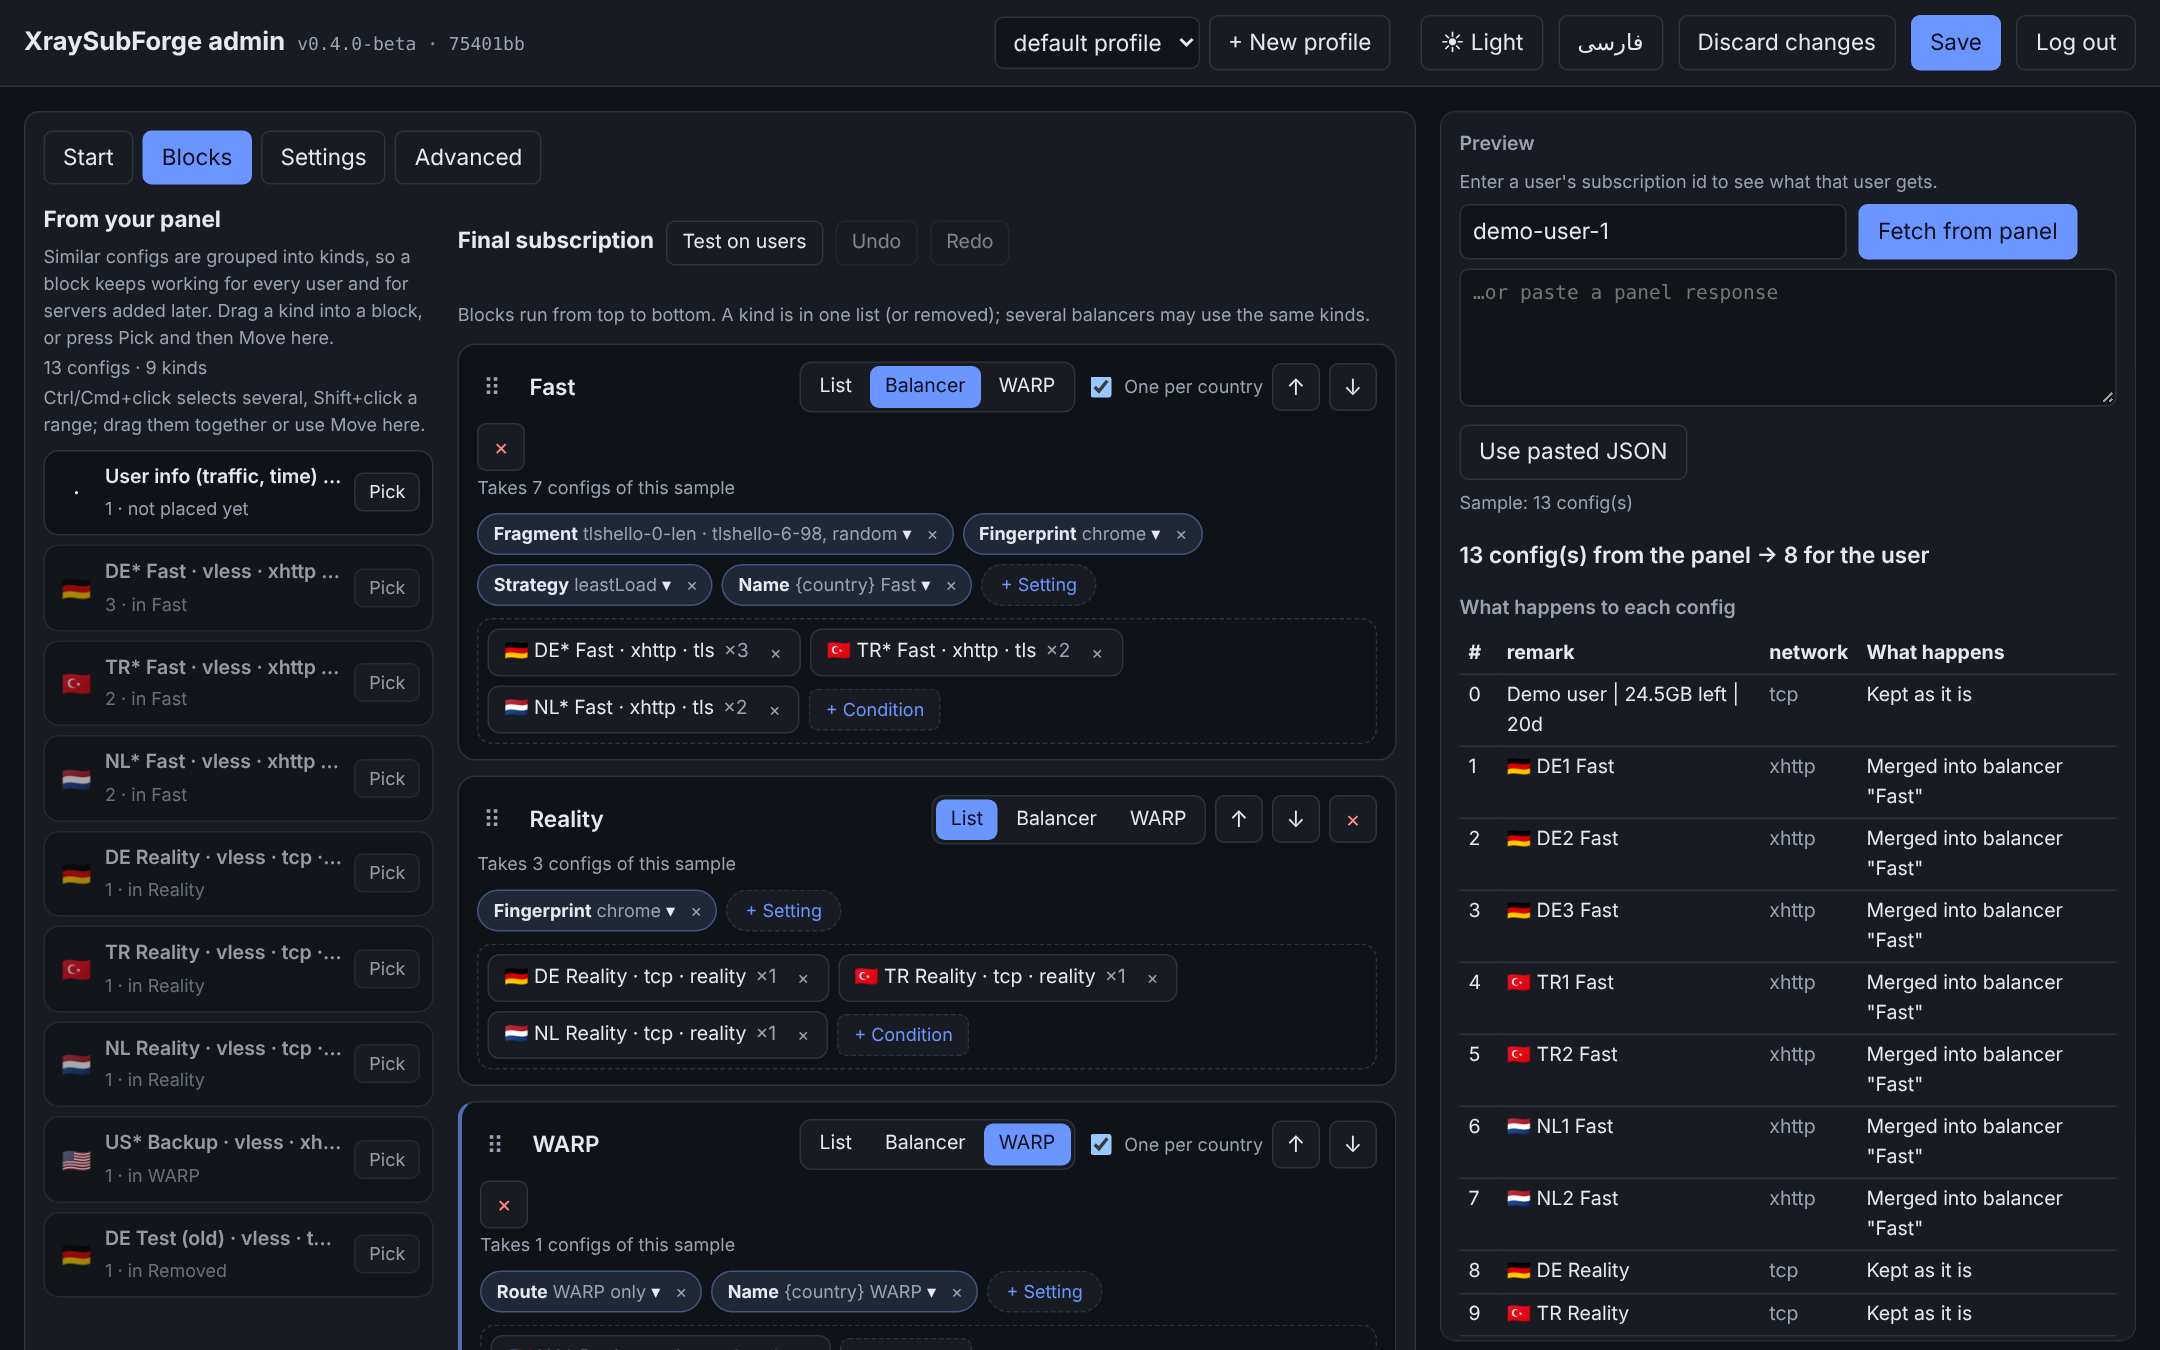
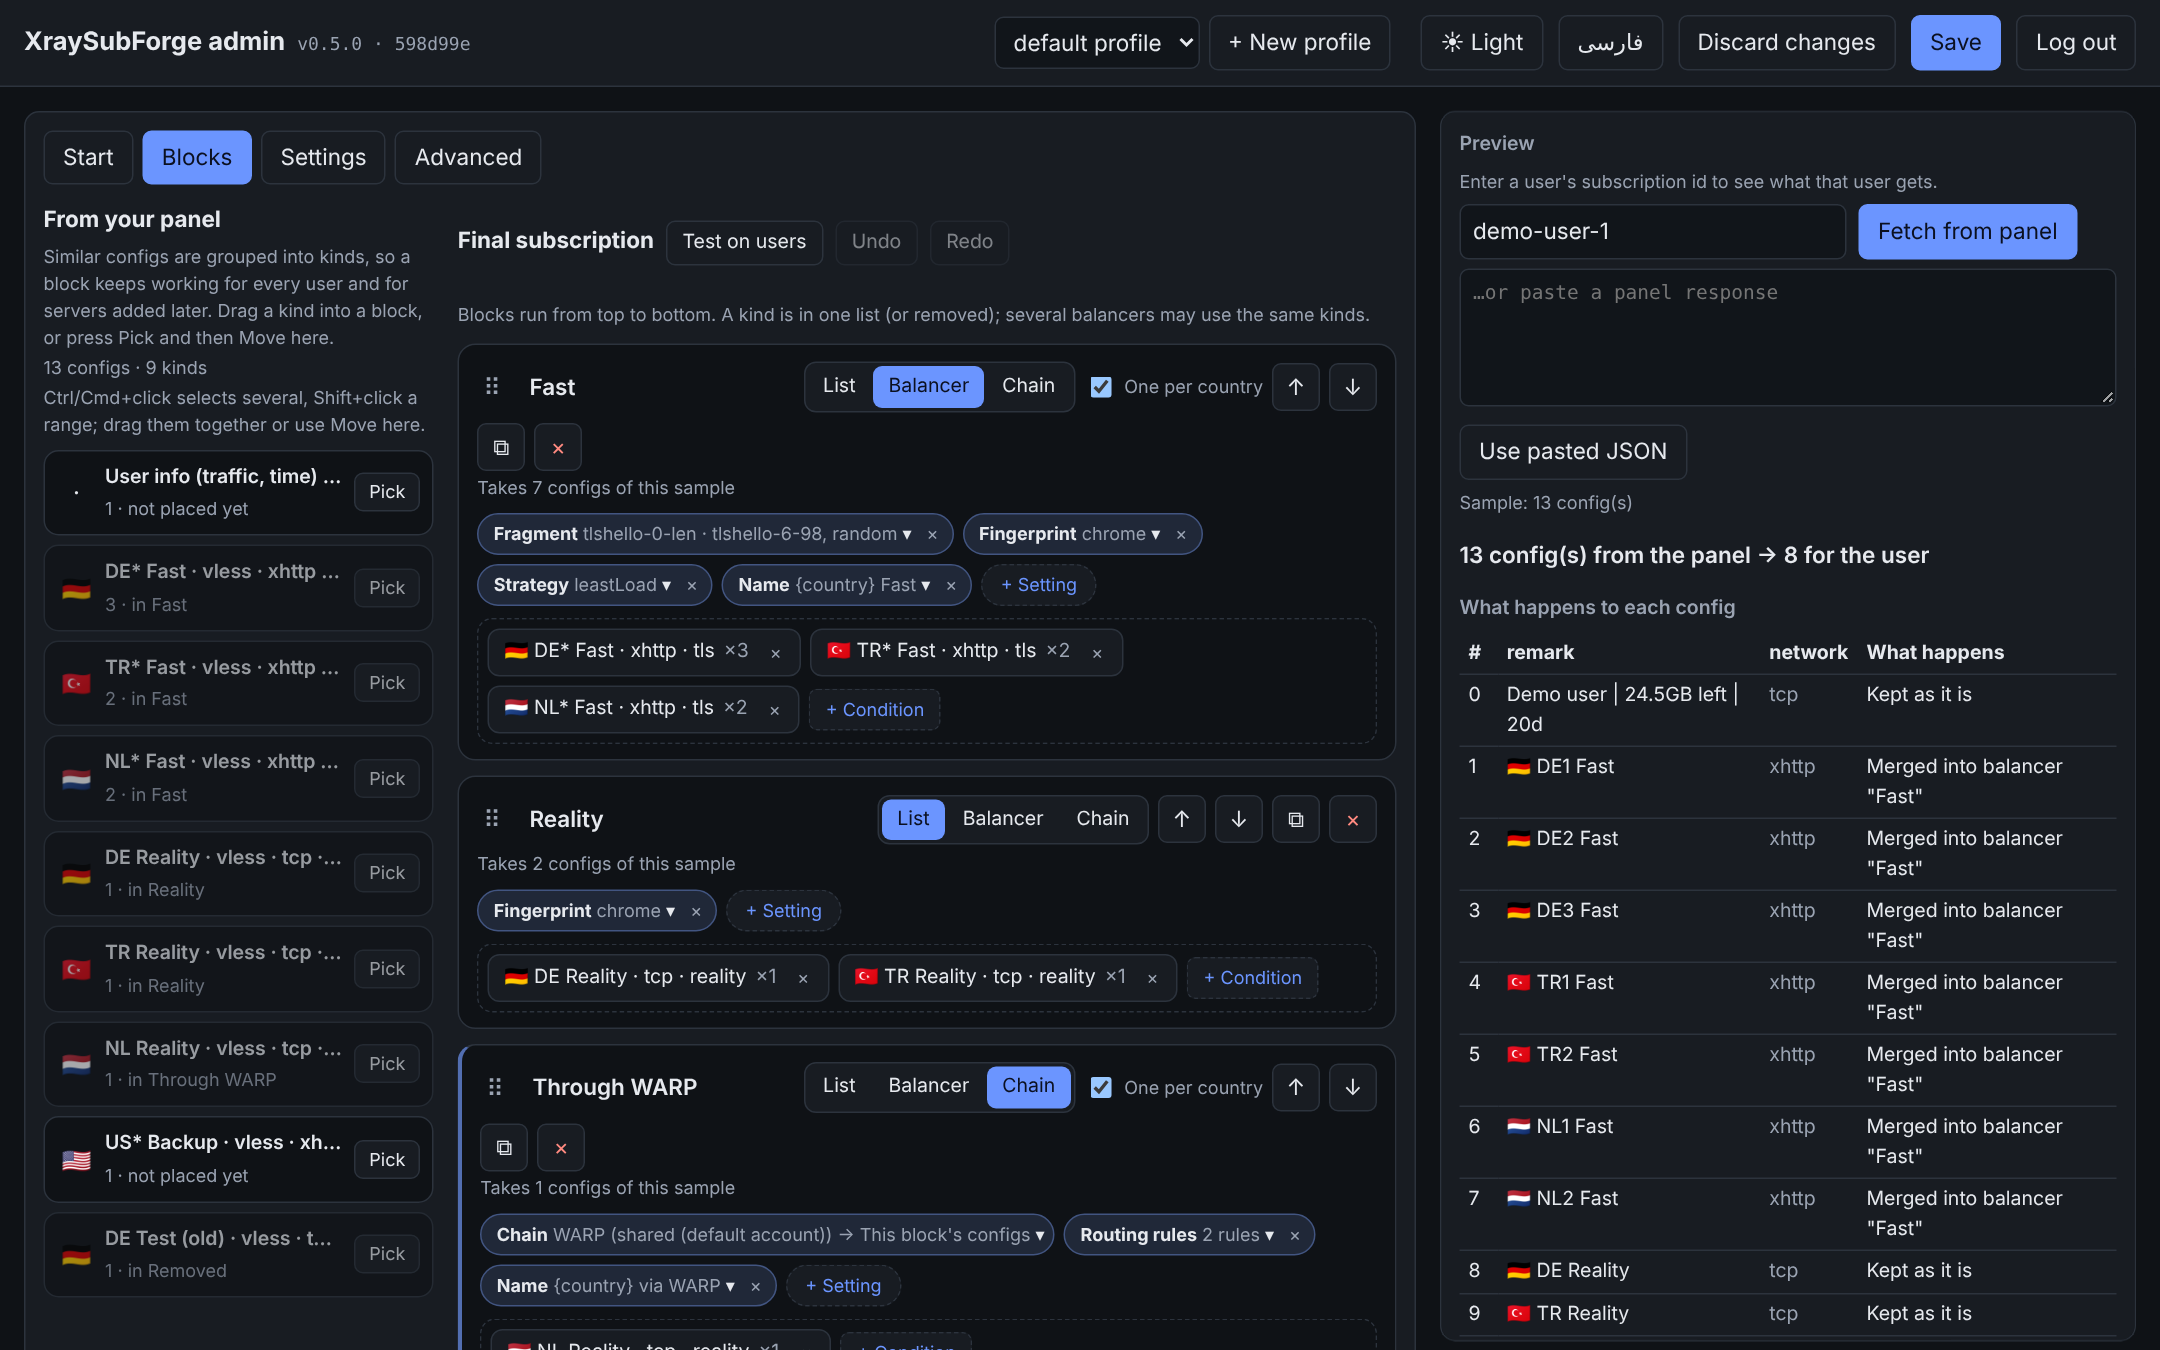
Screenshots for 0.5.0: blocks with a chain block, chain rules, DNS form, preview; routing rules help mentions position

diff --git a/xraysubforge/admin_static/admin.js b/xraysubforge/admin_static/admin.js
@@ -432,7 +432,7 @@
     hopLink: "Link (vless://, vmess://, trojan://, ss://)", hopImport: "Import", hopUserId: "Use each user's own id ({user.id})", hopOutHint: "Placeholders: {user.id} = the user's own id, {account.x} = a value of the account, {choice.x} = a value of Choices.", hopEndpoints: "Endpoints (empty = the account's)", hopEntry: "Entry outbound (empty = {account.masque.outbound})", hopMerge: "Changes to the WARP outbound", hopJson: "Edit as JSON", hopRows: "Edit as rows", hopImported: "Imported: {name}", s_warp: "Route", s_pick: "WARP endpoint",
     h_warp: "The config dropped here is only a placeholder. With an exit: the result is [exit, WARP], where the exit is the outbound template in the accounts file (exits by country flag, else exit) with the user's own id filled in, dialed through WARP. WARP only: WARP alone, no exit.",
     s_account: "WARP account", h_account: "Each user their own account (from the accounts file, or made automatically), or the one shared account (default) for everybody.", bAcctPersonal: "personal (per user)", bAcctShared: "shared (default account)",
-    s_rules: "Routing rules", h_rules: "Routing rules added at the end of the config's rules. A rule without outboundTag goes to this block's own proxy; write direct or block to send it elsewhere.",
+    s_rules: "Routing rules", h_rules: "Routing rules of this block's configs. Each rule goes to the end of the list (in front of the final catch-all) or, with Position Early, after the DNS rules. A rule without outboundTag goes to this block's own proxy; write direct or block to send it elsewhere.",
     bDuplicate: "Duplicate this block (settings only, without its configs)", bCopyOf: "{name} copy", bLegacy: "old setting", bLiftPresets: "Move the fragment / cipher presets to their own settings", bLiftHint: "A step here only picks fragment or cipher presets: the Fragment and Cipher settings do the same.", h_pick: "Which WARP endpoint each user gets.",
     bCostTitle: "Cost per member", bCostHint: "The first rule that matches a config sets its cost (higher = chosen less often). A rule without a condition is the default.", bCostValue: "cost", bCostWhen: "when", bCostAdd: "+ Cost rule", bCostAll: "every other config",
     bLoadParams: "leastLoad parameters (empty = Xray default)", bProbeParams: "Probe (how members are measured)", bNoParams: "This strategy has no parameters.", s_load: "leastLoad parameters", h_load: "expected, maxRTT and tolerance of the leastLoad strategy. Empty fields use Xray's own defaults.", s_probe: "Probe", h_probe: "How the balancer measures its members: URL, method, interval, number of samples and timeout.",
@@ -492,7 +492,7 @@
     hopLink: "لینک (vless://، vmess://، trojan://، ss://)", hopImport: "Import", hopUserId: "id خود هر کاربر گذاشته شود ({user.id})", hopOutHint: "Placeholderها: {user.id} = id خود کاربر، {account.x} = مقداری از حساب، {choice.x} = مقداری از Choices.", hopEndpoints: "Endpointها (خالی = مال حساب)", hopEntry: "Entry outbound (خالی = {account.masque.outbound})", hopMerge: "تغییرات روی outbound وارپ", hopJson: "ویرایش بهصورت JSON", hopRows: "ویرایش بهصورت ردیف", hopImported: "Import شد: {name}", s_warp: "مسیر", s_pick: "endpoint وارپ",
     h_warp: "کانفیگی که اینجا میکشید فقط جانگهدار است. با exit: نتیجه [exit, WARP] است؛ exit همان قالب outbound داخل فایل حسابهاست (exits بر اساس پرچم کشور، وگرنه exit) که id خود کاربر در آن گذاشته میشود و از داخل WARP وصل میشود. فقط WARP: خود WARP بدون exit.",
     s_account: "حساب WARP", h_account: "هر کاربر حساب خودش (از فایل حسابها یا ساخت خودکار)، یا یک حساب مشترک (default) برای همه.", bAcctPersonal: "شخصی (هر کاربر جدا)", bAcctShared: "مشترک (حساب default)",
-    s_rules: "قوانین مسیریابی", h_rules: "قوانین routing که به انتهای قوانین کانفیگ اضافه میشوند. قانونی که outboundTag ندارد به پروکسی خود همین بلوک میرود؛ برای مقصد دیگر direct یا block بنویسید.",
+    s_rules: "قوانین مسیریابی", h_rules: "قوانین routing کانفیگهای این بلوک. هر قانون به ته لیست (قبل از قانون فراگیر آخر) میرود، یا با جایگاه «اول» بعد از قوانین DNS. قانونی که outboundTag ندارد به پروکسی خود همین بلوک میرود؛ برای مقصد دیگر direct یا block بنویسید.",
     bDuplicate: "کپی این بلوک (فقط تنظیمات، بدون کانفیگها)", bCopyOf: "کپی {name}", bLegacy: "تنظیم قدیمی", bLiftPresets: "انتقال presetهای fragment / cipher به تنظیم خودشان", bLiftHint: "یک مرحله در اینجا فقط preset فرگمنت یا cipher انتخاب میکند: تنظیمهای Fragment و Cipher همین کار را میکنند.", h_pick: "هر کاربر کدام endpoint وارپ را بگیرد.",
     bCostTitle: "Cost هر عضو", bCostHint: "اولین قانونی که با یک کانفیگ جور شود cost آن را تعیین میکند (بیشتر = کمتر انتخاب میشود). قانون بدون شرط، پیشفرض است.", bCostValue: "cost", bCostWhen: "شرط", bCostAdd: "+ قانون cost", bCostAll: "بقیهٔ کانفیگها",
     pMerge: "ادغام", pRoutePre: "قوانین مسیریابی که اول اضافه میشوند", pRoutePost: "قوانین مسیریابی که آخر اضافه میشوند",

diff --git a/README.fa.md b/README.fa.md
@@ -57,6 +57,12 @@
 
 *Balancer* را بزنید، *One per country* را تیک بزنید، گونههای مورد نظر را داخلش بکشید و انتخاب کنید عضو را چطور برگزیند. پارامترهای خود strategy (برای `leastLoad`: `expected`، `maxRTT`، `tolerance`، `baselines`) و probe که اعضا را اندازه میگیرد داخل تنظیم **Strategy** هستند و پیشفرض Xray بهصورت راهنما نشان داده میشود. costها ردیفاند: *این شرط اینقدر cost دارد، بقیه آنقدر*. اگر به strategy دیگر بروید و برگردید، چیزی که نوشته بودید نمیپرد.
 
+## زنجیره، قوانین مسیریابی و DNS
+
+<p align="center"><img src="docs/assets/screens/chain-rules.png" alt="بلوک زنجیره: WARP و بعد کانفیگ، با قوانین مسیریابی خودش و جایگاه برای هر قانون" width="420"> <img src="docs/assets/screens/dns.png" alt="فرم DNS: host، server، queryStrategy و تگ inbound" width="420"></p>
+
+بلوک **Chain** هر کانفیگ را از hopهایش رد میکند (WARP و بعد خود کانفیگ، یا هر outbound که از لینک ایمپورت میکنید). هر بلوک میتواند **قوانین مسیریابی** خودش را داشته باشد؛ هر قانون یا ته لیست و قبل از قانون فراگیر آخر مینشیند، یا *اول*، بعد از قوانین DNS. برای DNS در تب Settings فرم هست (و *Edit as JSON* / *Import JSON*).
+
 ## پیشنمایش قبل از رسیدن به کاربر
 
 <p align="center"><img src="docs/assets/screens/preview.png" alt="پیشنمایش: هر کانفیگ ساب یک کاربر چه میشود" width="360"></p>

diff --git a/README.md b/README.md
@@ -84,6 +84,14 @@ parameters (for `leastLoad`: `expected`, `maxRTT`, `tolerance`, `baselines`) and
 **Strategy** setting, each with Xray's default shown as a hint. Costs are rows: *this condition costs this much, everything else
 costs that*. Switching to another strategy and back keeps what you typed.
 
+## Chains, routing rules and DNS
+
+<p align="center"><img src="docs/assets/screens/chain-rules.png" alt="A chain block: WARP, then the config, with its own routing rules and a position for each rule" width="420"> <img src="docs/assets/screens/dns.png" alt="The DNS form: hosts, servers, queryStrategy and the DNS inbound tag" width="420"></p>
+
+A **Chain** block sends each config through its hops (WARP, then the config, or any outbound you import from a link). Each block can add
+its own **routing rules**; every rule is placed at the end of the list, in front of the final catch-all, or *early*, after the DNS
+rules. DNS has forms (and *Edit as JSON* / *Import JSON*) under Settings.
+
 ## Preview before anything reaches a user
 
 <p align="center"><img src="docs/assets/screens/preview.png" alt="The preview: what happens to each config of a user's subscription" width="360"></p>
